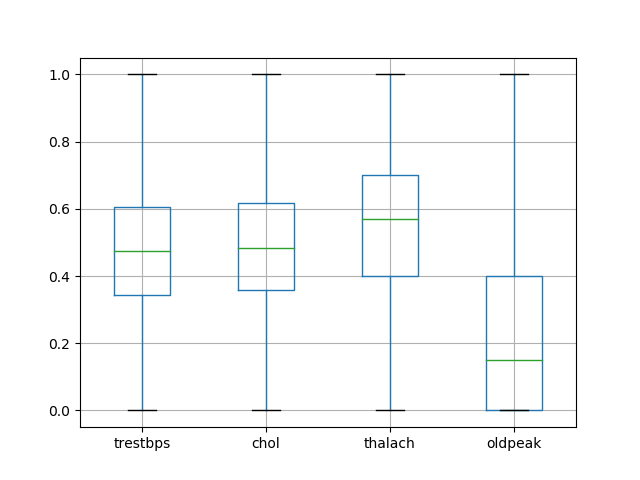
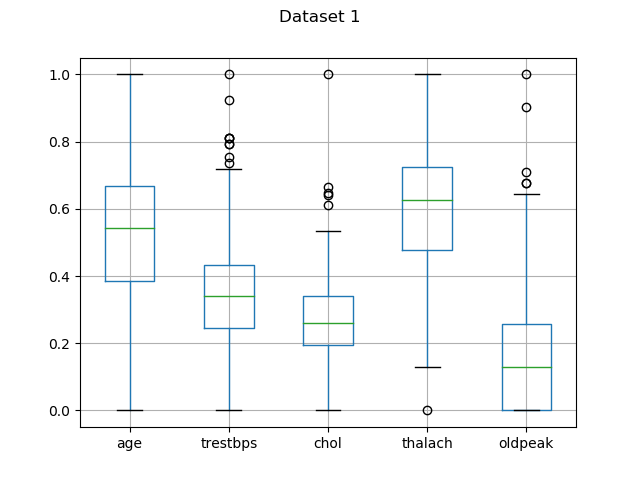
adjustments

diff --git a/main.py b/main.py
@@ -29,17 +29,17 @@ def main():
     d1_data.remove_null_values()
     d2_data.remove_null_values()
 
-    d1_data.remove_outliers(['trestbps', 'chol', 'thalach', 'oldpeak'])
-    d2_data.remove_outliers(['height', 'weight', 'ap_hi', 'ap_lo'])
+    #d1_data.remove_outliers(['trestbps', 'chol', 'thalach', 'oldpeak'])
+    #d2_data.remove_outliers(['height', 'weight', 'ap_hi', 'ap_lo'])
 
-    plt.rad_plot(d1_data.data, ['trestbps', 'chol', 'thalach', 'oldpeak', 'target'], 'target')
-    plt.rad_plot(d2_data.data, ['height', 'weight', 'ap_hi', 'ap_lo', 'cardio'], 'cardio')
+    plt.rad_plot(d1_data.data, ['age', 'trestbps', 'chol', 'thalach', 'oldpeak', 'target'], 'target')
+    plt.rad_plot(d2_data.data, ['age', 'height', 'weight', 'ap_hi', 'ap_lo', 'cardio'], 'cardio')
 
     d1_data.normalise()
     d2_data.normalise()
 
-    plt.box_plot(d1_data.data, ['trestbps', 'chol', 'thalach', 'oldpeak'], 'target')
-    plt.box_plot(d2_data.data, ['height', 'weight', 'ap_hi', 'ap_lo'], 'cardio')
+    plt.box_plot(d1_data.data, ['age', 'trestbps', 'chol', 'thalach', 'oldpeak'], 'target', 'Dataset 1')
+    plt.box_plot(d2_data.data, ['age', 'height', 'weight', 'ap_hi', 'ap_lo'], 'cardio', 'Dataset 2')
     
     # Discretize continuous data into categories
     #d1_data.discretize(['trestbps', 'chol', 'thalach', 'oldpeak'], 5)

diff --git a/plotting.py b/plotting.py
@@ -33,9 +33,10 @@ class Plot:
 
 
     # Box plot numerical data with target
-    def box_plot(self, df, cols, target):
+    def box_plot(self, df, cols, target, title):
         plt.figure()
         df.boxplot(column=cols)
+        plt.suptitle(title)
         plt.savefig(os.path.join('plots', f'boxplots_{self.box_number}.png'), format='png')
         self.box_number += 1
         plt.close()
@@ -50,7 +51,7 @@ class Plot:
         df2[target_name] = df2[target_name].map(target)
 
         plt.figure()
-        pd.plotting.radviz(df2, target_name, color=['green', 'red'])
+        pd.plotting.radviz(df2, target_name, color=['green', 'blue'])
         plt.savefig(os.path.join('plots', f'rad_{self.hist_number}.png'), format='png')
         self.hist_number += 1
         plt.close()
@@ -67,6 +68,7 @@ class Plot:
         ax.set_xticklabels(names, rotation=90)
         ax.set_yticklabels(names)
         plt.savefig(os.path.join('plots','corr.png'))
+        plt.close()
 
     # Create bar chart for p-values of chi-square results
     def plot_chi(self, p_values):
@@ -74,3 +76,4 @@ class Plot:
         plt.figure(2)
         p_values.plot.bar(rot=0)
         plt.savefig(os.path.join('plots', 'chi_pvalues.png'))
+        plt.close()
